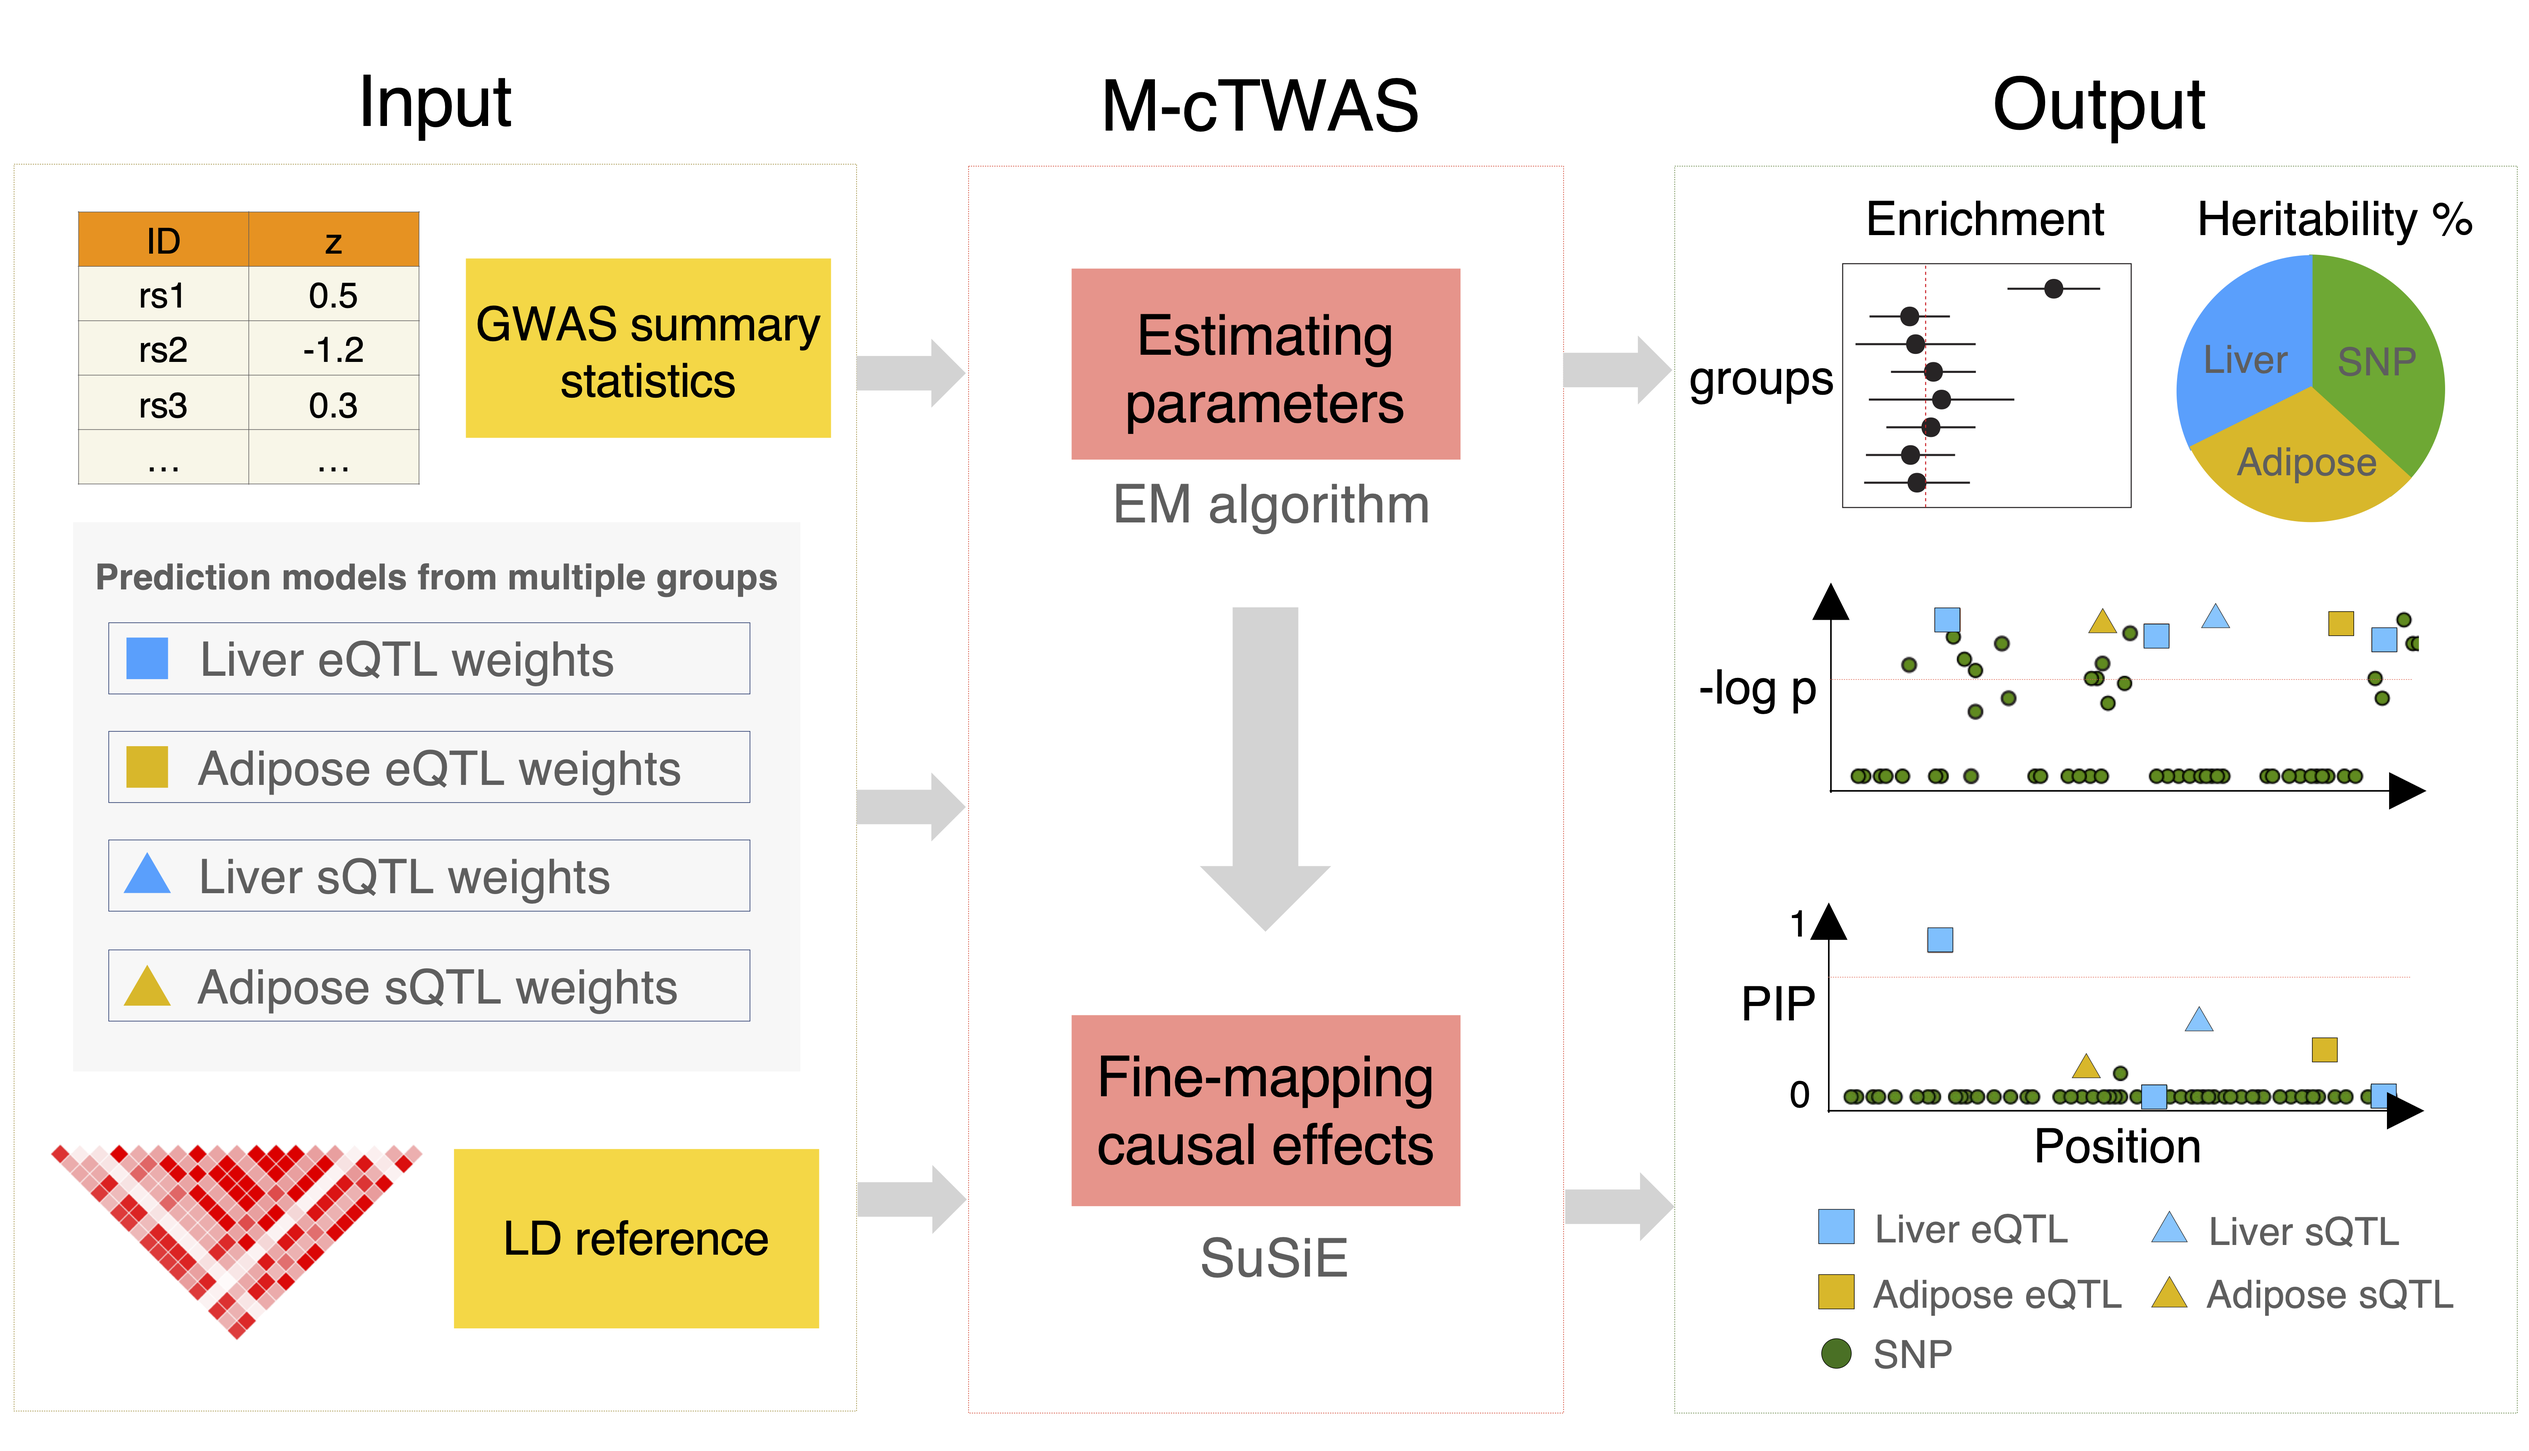
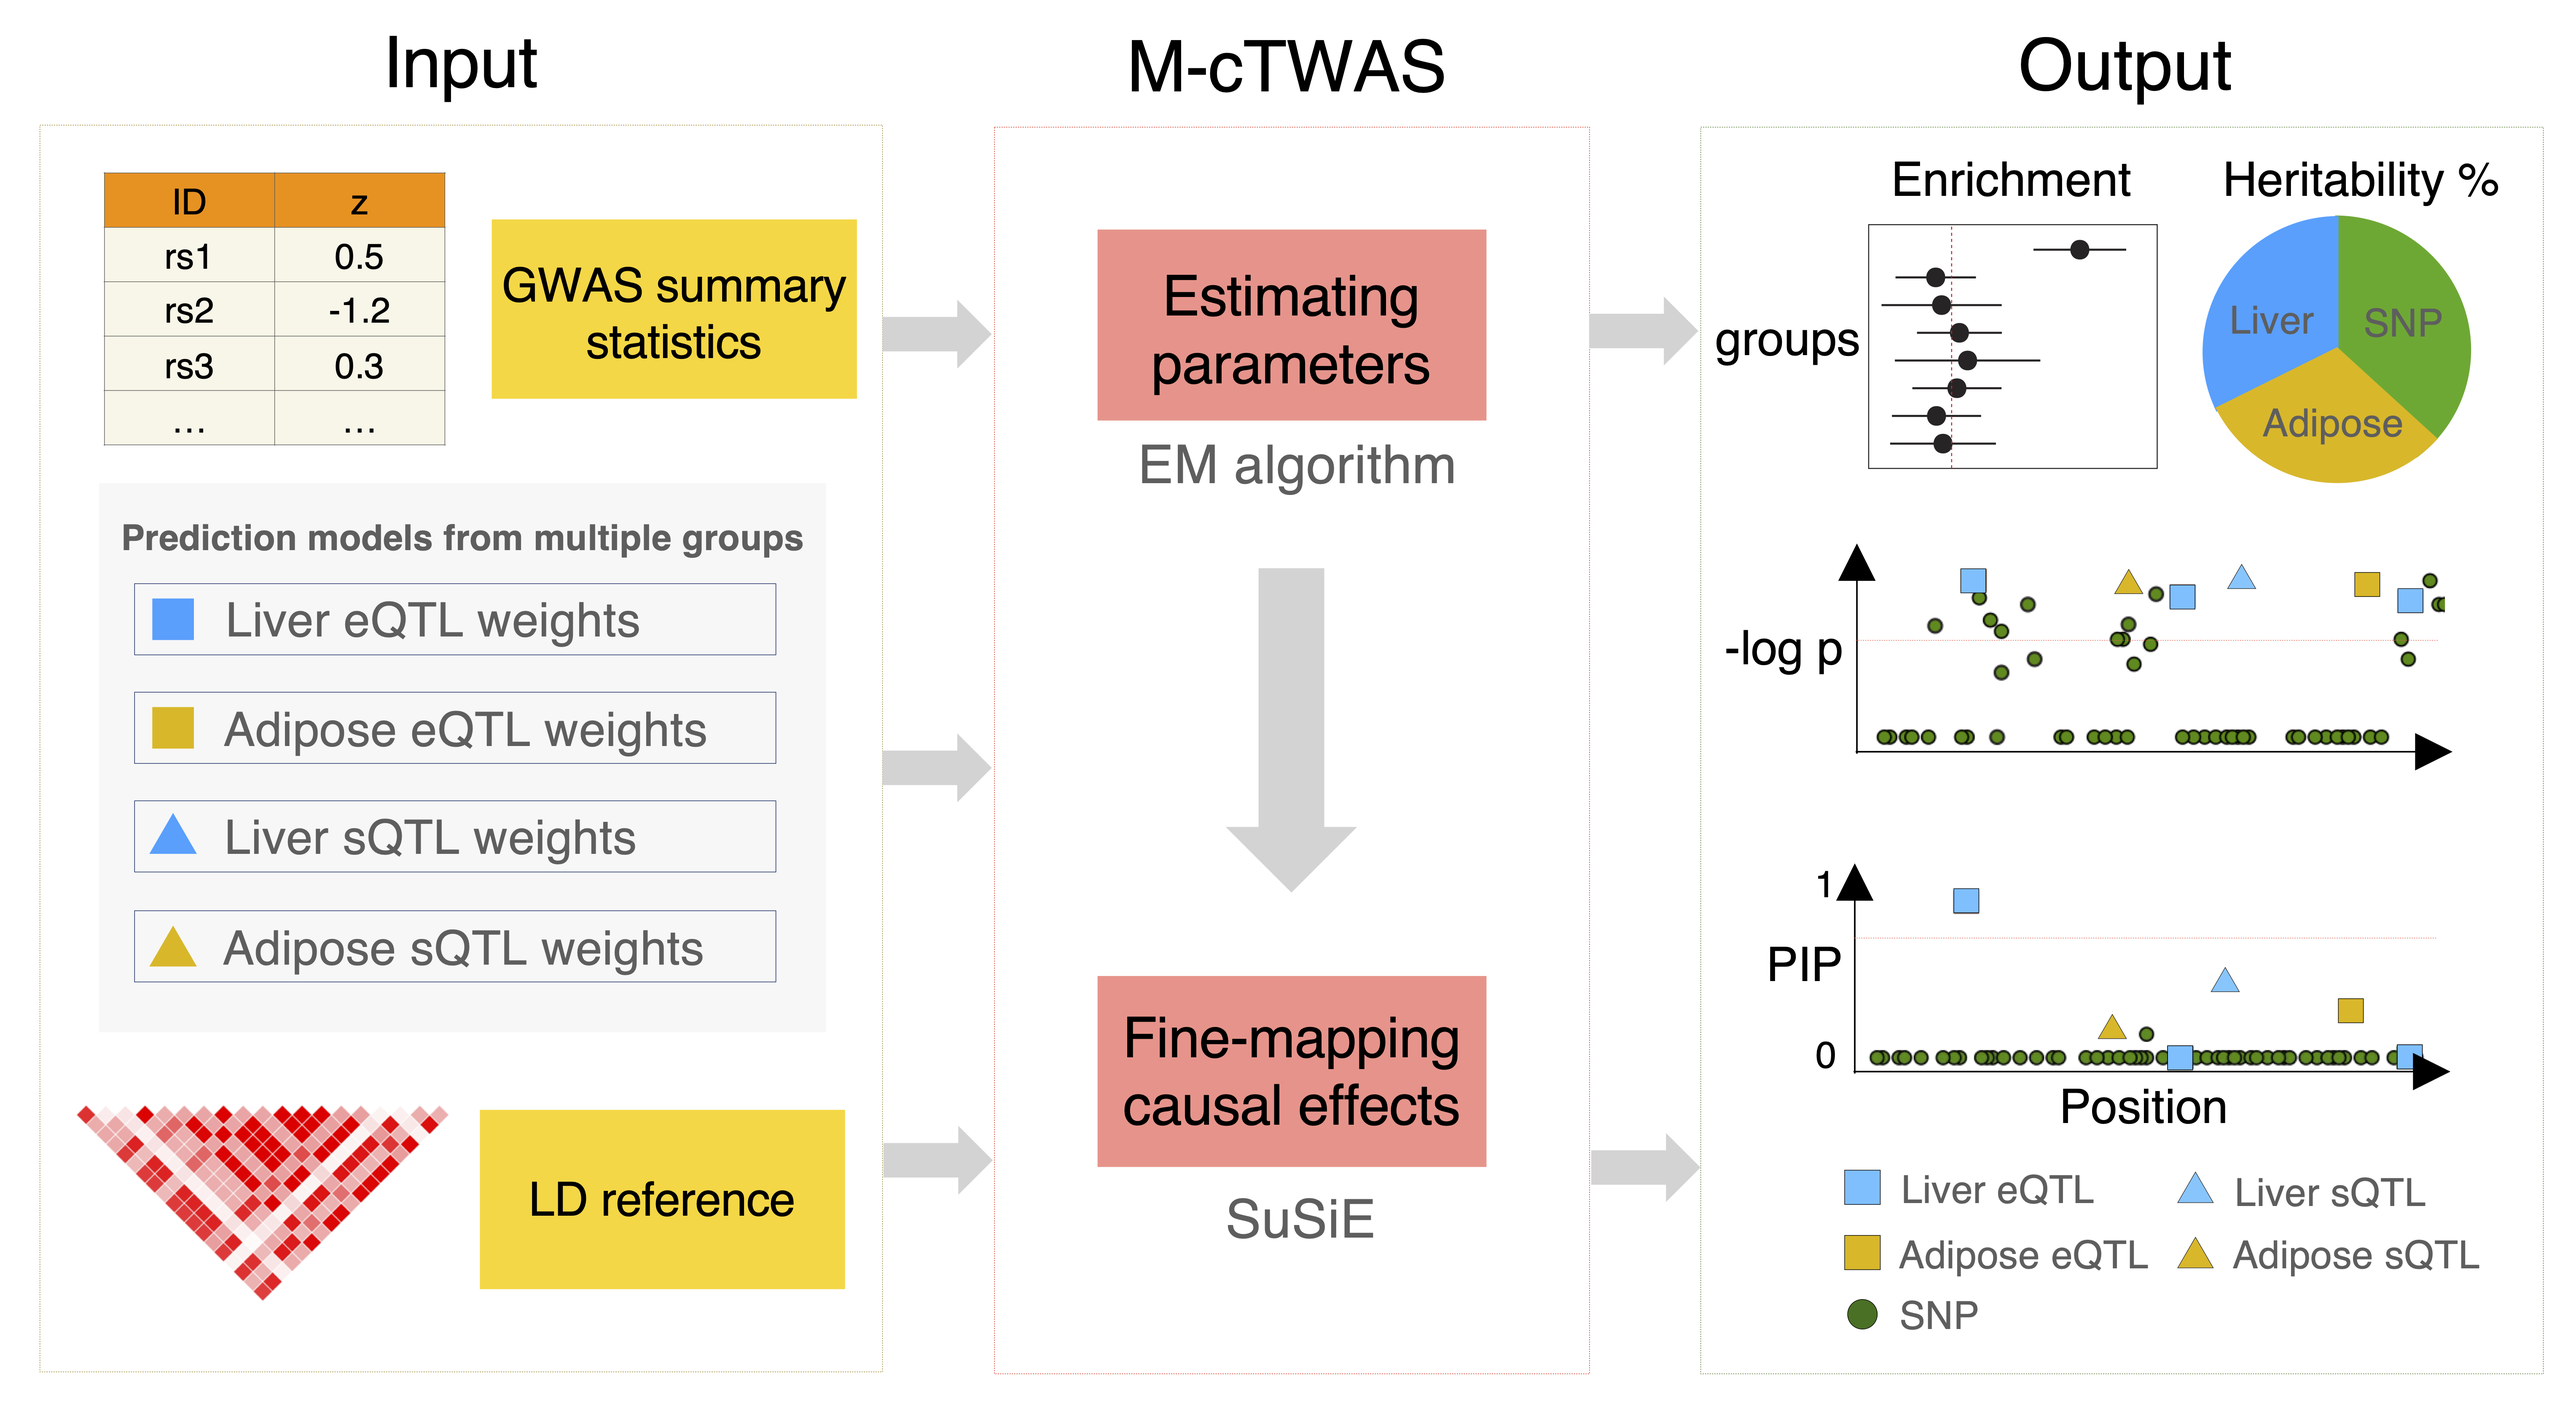
update m-ctwas workflow diagram

diff --git a/README.md b/README.md
@@ -66,7 +66,7 @@ We also have a FAQ page for some common questions:
 
 - [FAQ](https://xinhe-lab.github.io/multigroup_ctwas/articles/FAQ.html)
 
-<img style="display:block;margin:auto" width="700" height="300" src="man/figures/m_ctwas_workflow.png">
+<img style="display:block;margin:auto" width="600" height="300" src="man/figures/m_ctwas_workflow.png">
 
 ## Citing this work
 
